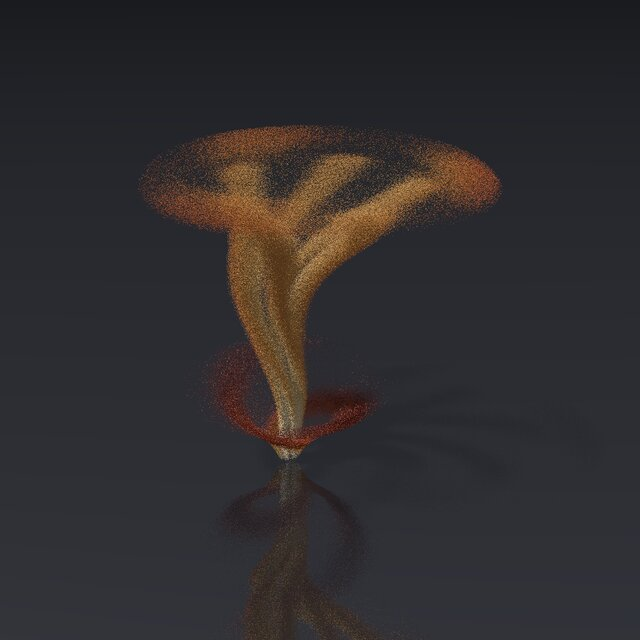
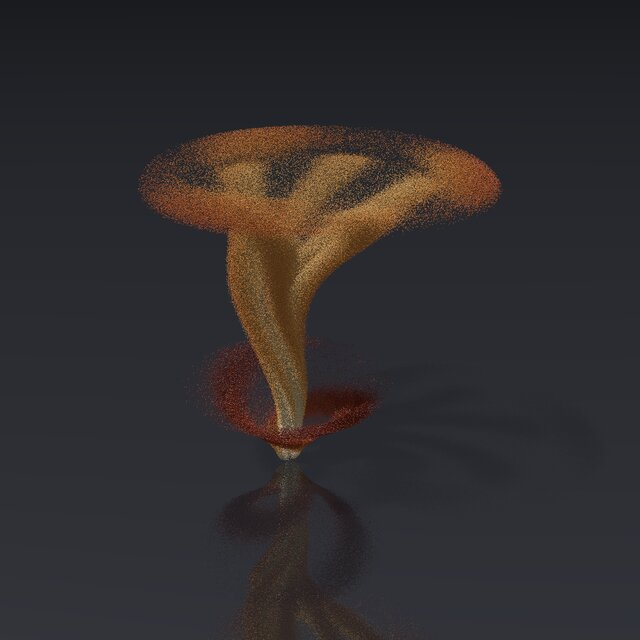
Tornado: default radius 0.01 at the default count
The radius still follows the count, as 0.01 (500,000 / count)^(1/3), so that
8 million spheres alone take 0.004 and still fit. The figure is rendered at
the new radius, denser.

Changed region(s): [[0.2188, 0.1875, 0.7812, 0.7188], [0.5312, 0.625, 0.5625, 0.6562]]

diff --git a/Examples/Tornado/main.cpp b/Examples/Tornado/main.cpp
@@ -12,7 +12,7 @@
 //   ./Tornado.ex [--count=<n>] [--radius=<r>]
 //
 // --count is the number of spheres (default 500000) and --radius their radius. By default the radius follows the
-// count, 0.003 at 8 million, so that the tornado looks as dense at any count. A sphere that finds no free position is
+// count, 0.01 at the default count, so that the tornado looks as dense at any count. A sphere that finds no free position is
 // left out, so the program prints how many it placed.
 
 #include <algorithm>
@@ -369,7 +369,7 @@ main(int argc, char* argv[])
   }
 
   if (radius <= T(0)) {
-    radius = T(0.003) * std::cbrt(T(8000000) / T(count));
+    radius = T(0.01) * std::cbrt(T(500000) / T(count));
   }
 
   // ── Pack the spheres ───────────────────────────────────────────────────────────────────────────────

diff --git a/Examples/Tornado/README.md b/Examples/Tornado/README.md
@@ -69,8 +69,8 @@ Running
     ./Tornado.ex --count=8000000                  # 8 million
     ./Tornado.ex --count=8000000 --radius=0.002   # thinner
 
-`--count` sets the number of spheres and `--radius` their radius. By default the radius follows the count (0.003 at 8
-million), so that the tornado looks as dense at any count. It prints how many spheres it placed (a sphere with no room
+`--count` sets the number of spheres and `--radius` their radius. By default the radius follows the count (0.01 at the
+default 500,000), so that the tornado looks as dense at any count. It prints how many spheres it placed (a sphere with no room
 left is left out) and how long that took, how long the cloud took to build and the range of wind speeds, and the wind
-at four points on the funnel's wall, on the host and through `GPU::transform`. Eight million spheres take about 15
+at four points on the funnel's wall, on the host and through `GPU::transform`. Eight million spheres take about 17
 seconds and 2.5 GB in a Release build.
